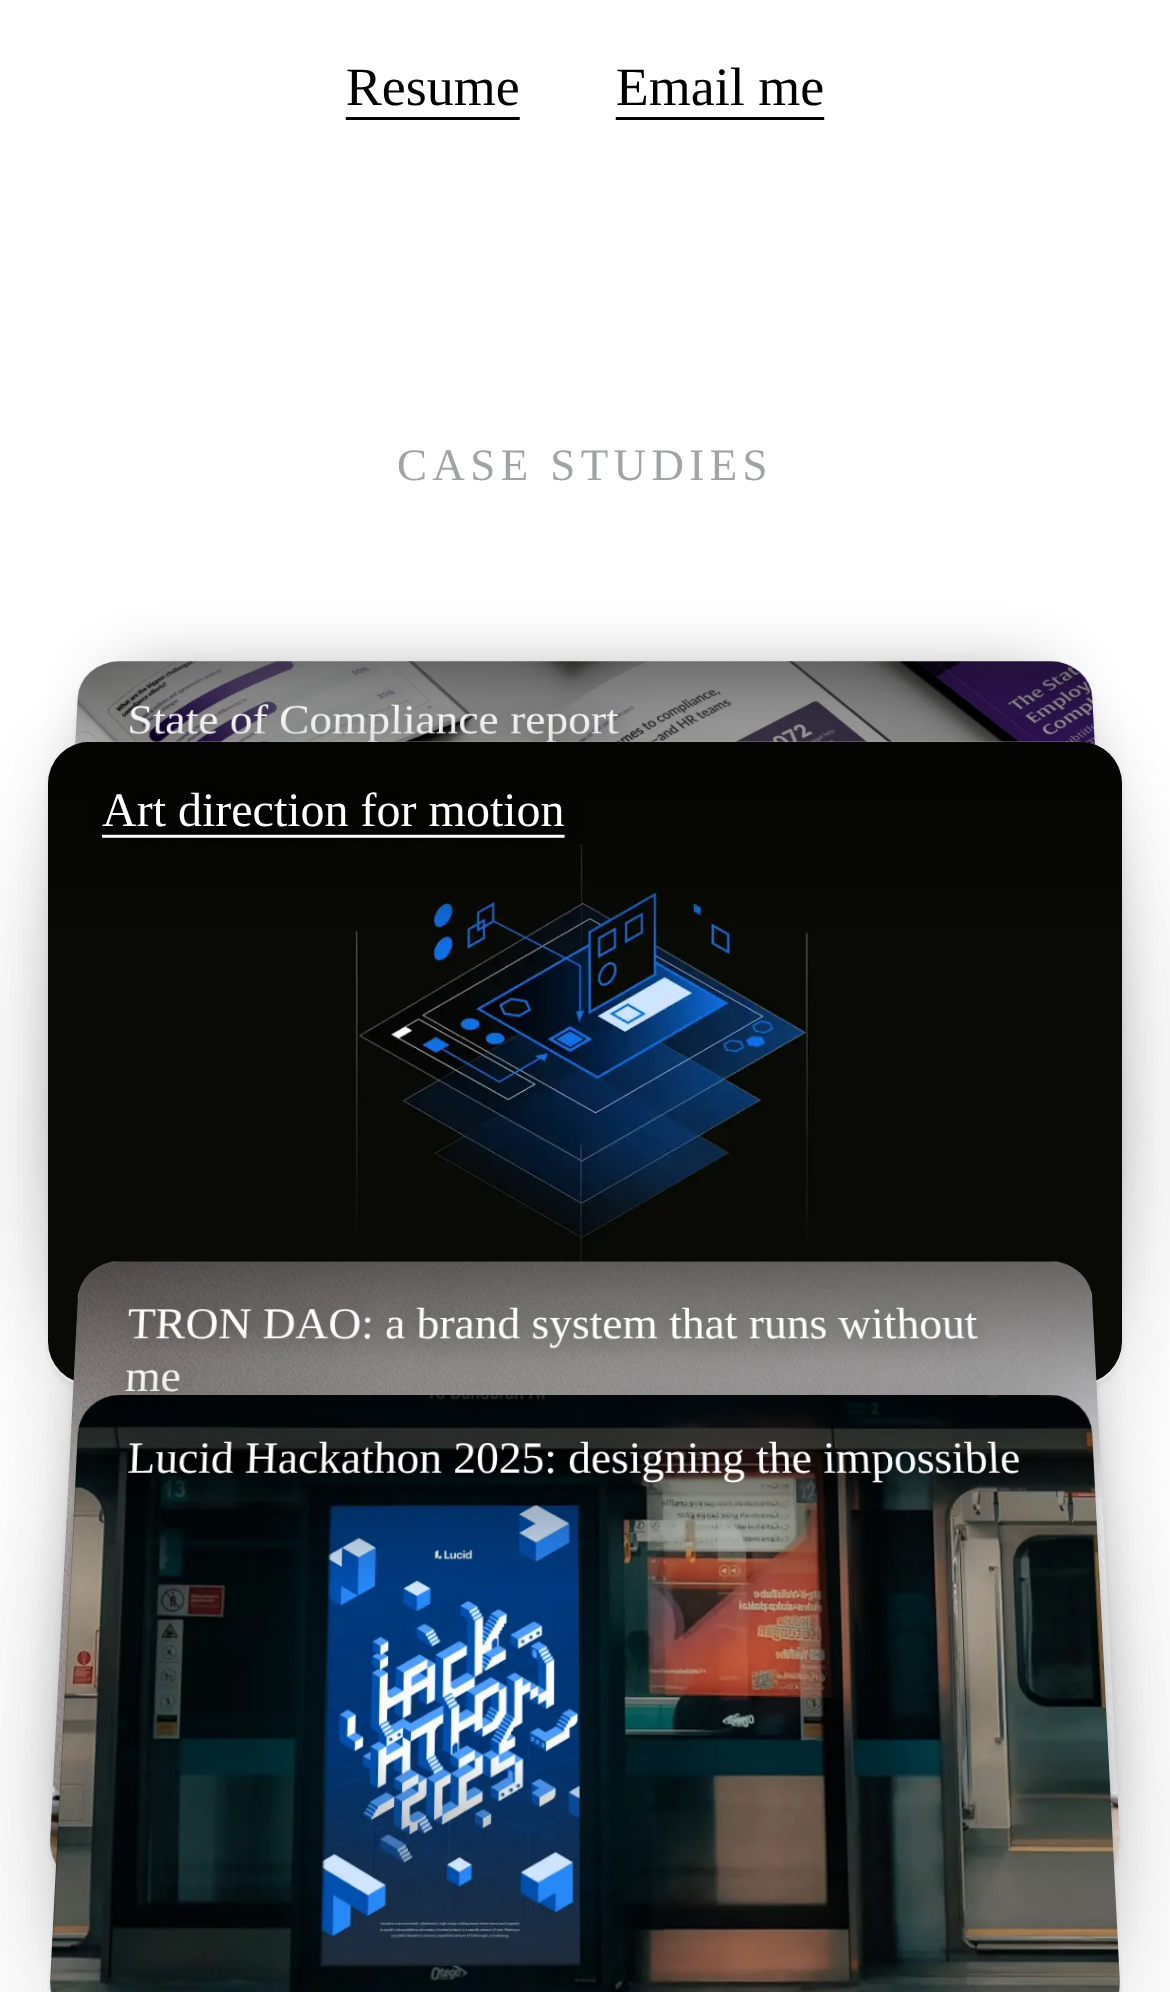
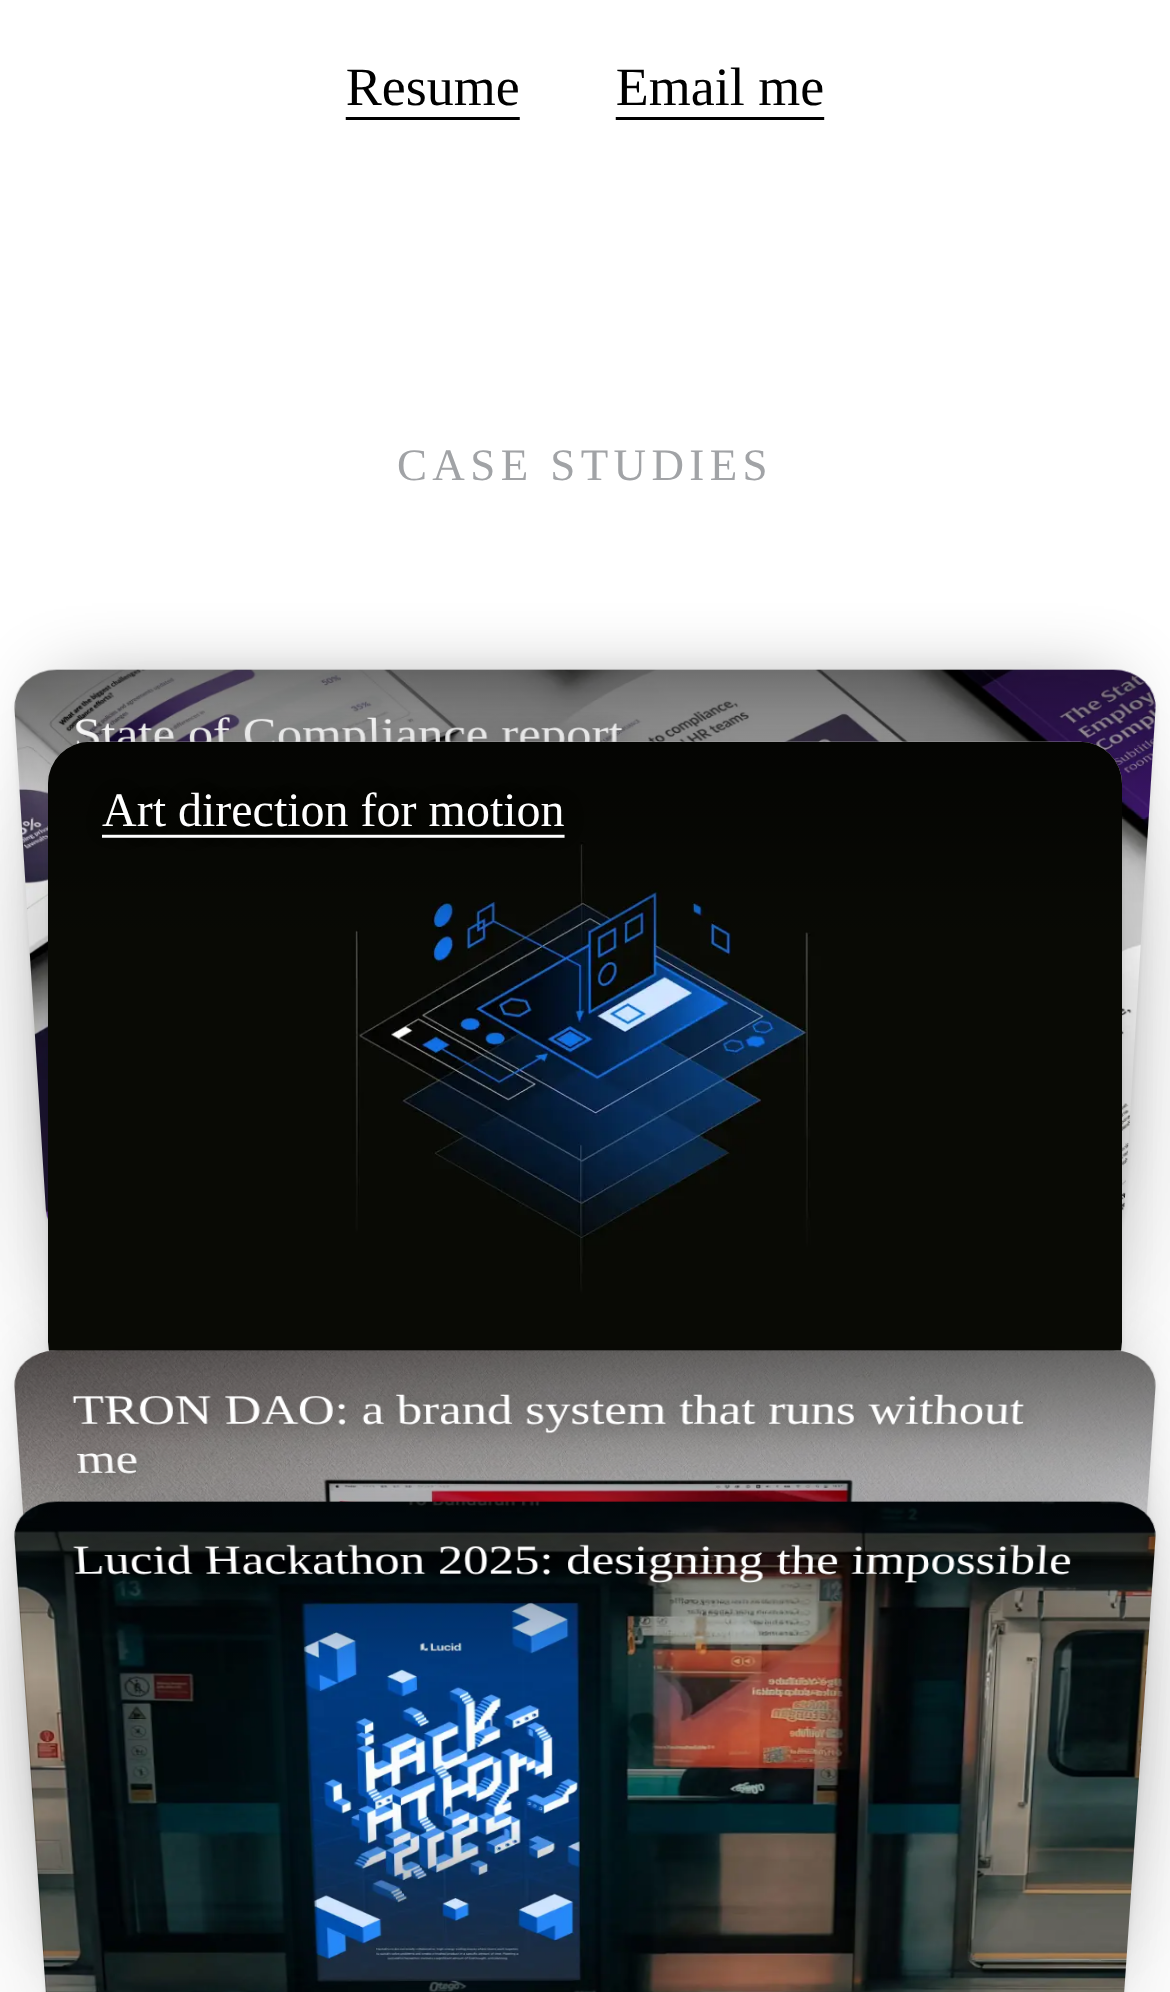
Tip the case study cards toward the viewer so they come forward
Claude-Session: https://claude.ai/code/session_012okL6dvzymGUxin7fTu74p

Changed region(s): [[0.0, 0.6225, 1.0, 1.0], [0.0, 0.3112, 1.0, 0.498], [0.0, 0.4669, 0.0615, 0.5914]]

diff --git a/components/CaseStack.tsx b/components/CaseStack.tsx
@@ -7,7 +7,7 @@ import type { ShowcaseItem } from "./Showcase";
 
 /**
  * The four case studies as records in a crate, after Ryker's reference:
- * image cards lean back in a stack that runs down the page, each showing a
+ * image cards tip forward, toward the viewer, in a stack that runs down the page, each showing a
  * strip with its title over the image. As the cursor moves over the stack,
  * the card under it flips upright and the cards in front drop back to show
  * it. On touch screens, scrolling the stack past the middle of the screen

diff --git a/app/globals.css b/app/globals.css
@@ -145,7 +145,8 @@ body {
   --step: calc(var(--h) * 0.22);
   --reveal: calc(var(--h) * 0.55);
   --count: 4;
-  --tilt: 26deg;
+  /* Negative tips the tops toward the viewer, so the cards come forward. */
+  --tilt: -26deg;
   position: relative;
   width: var(--w);
   height: calc(var(--h) + (var(--count) - 1) * var(--step) + var(--reveal));
